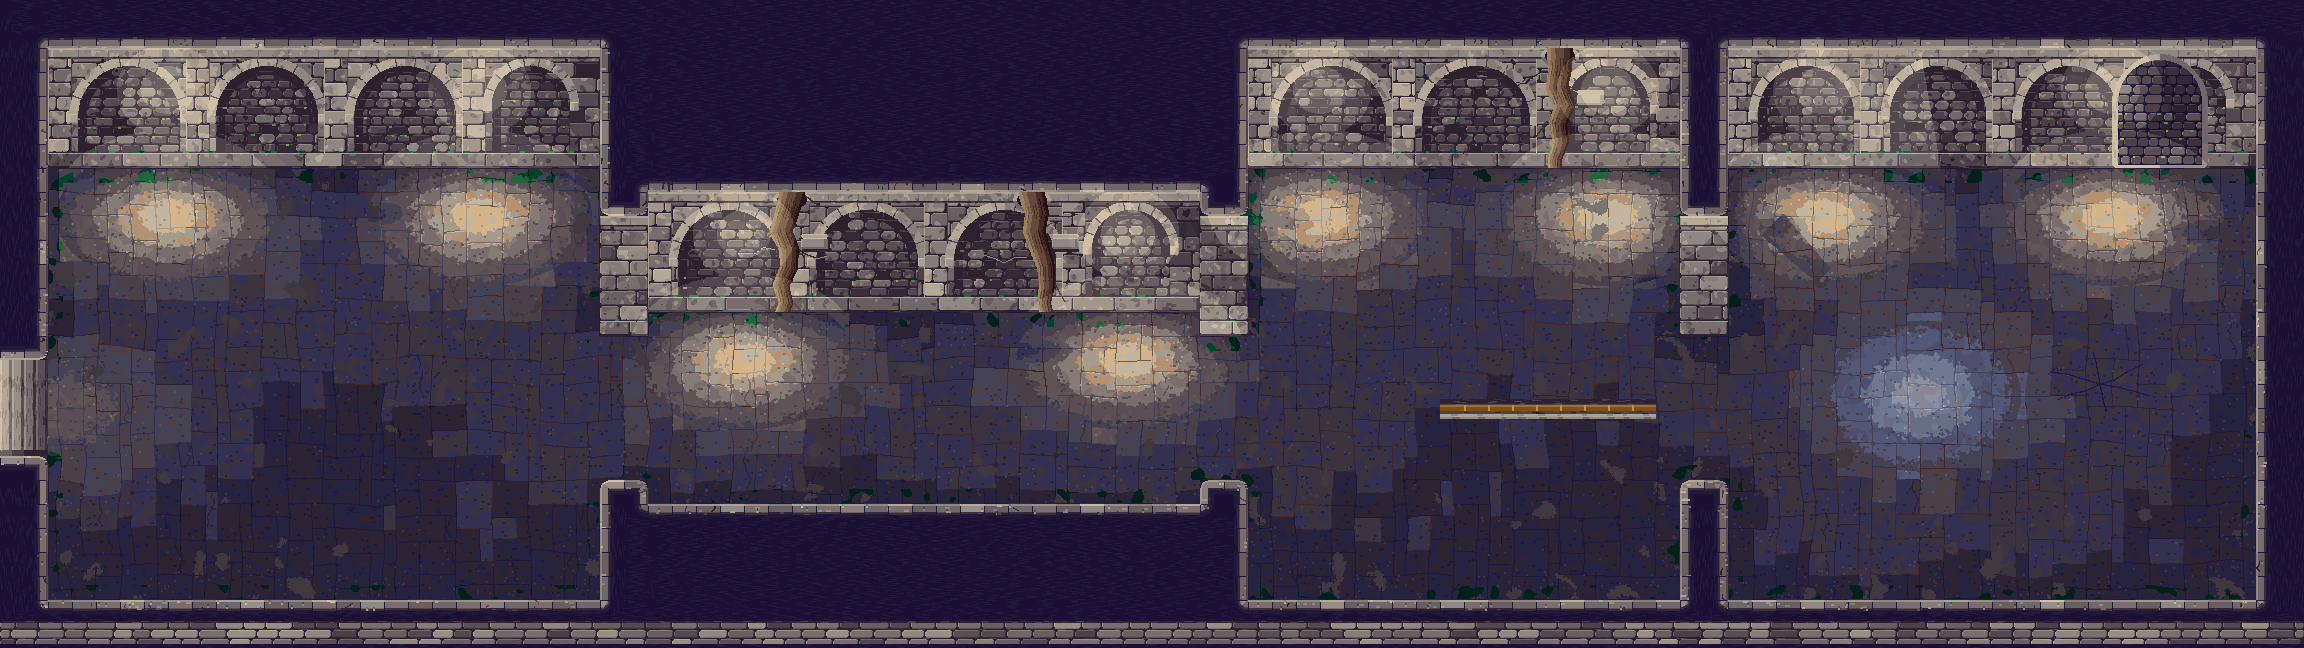
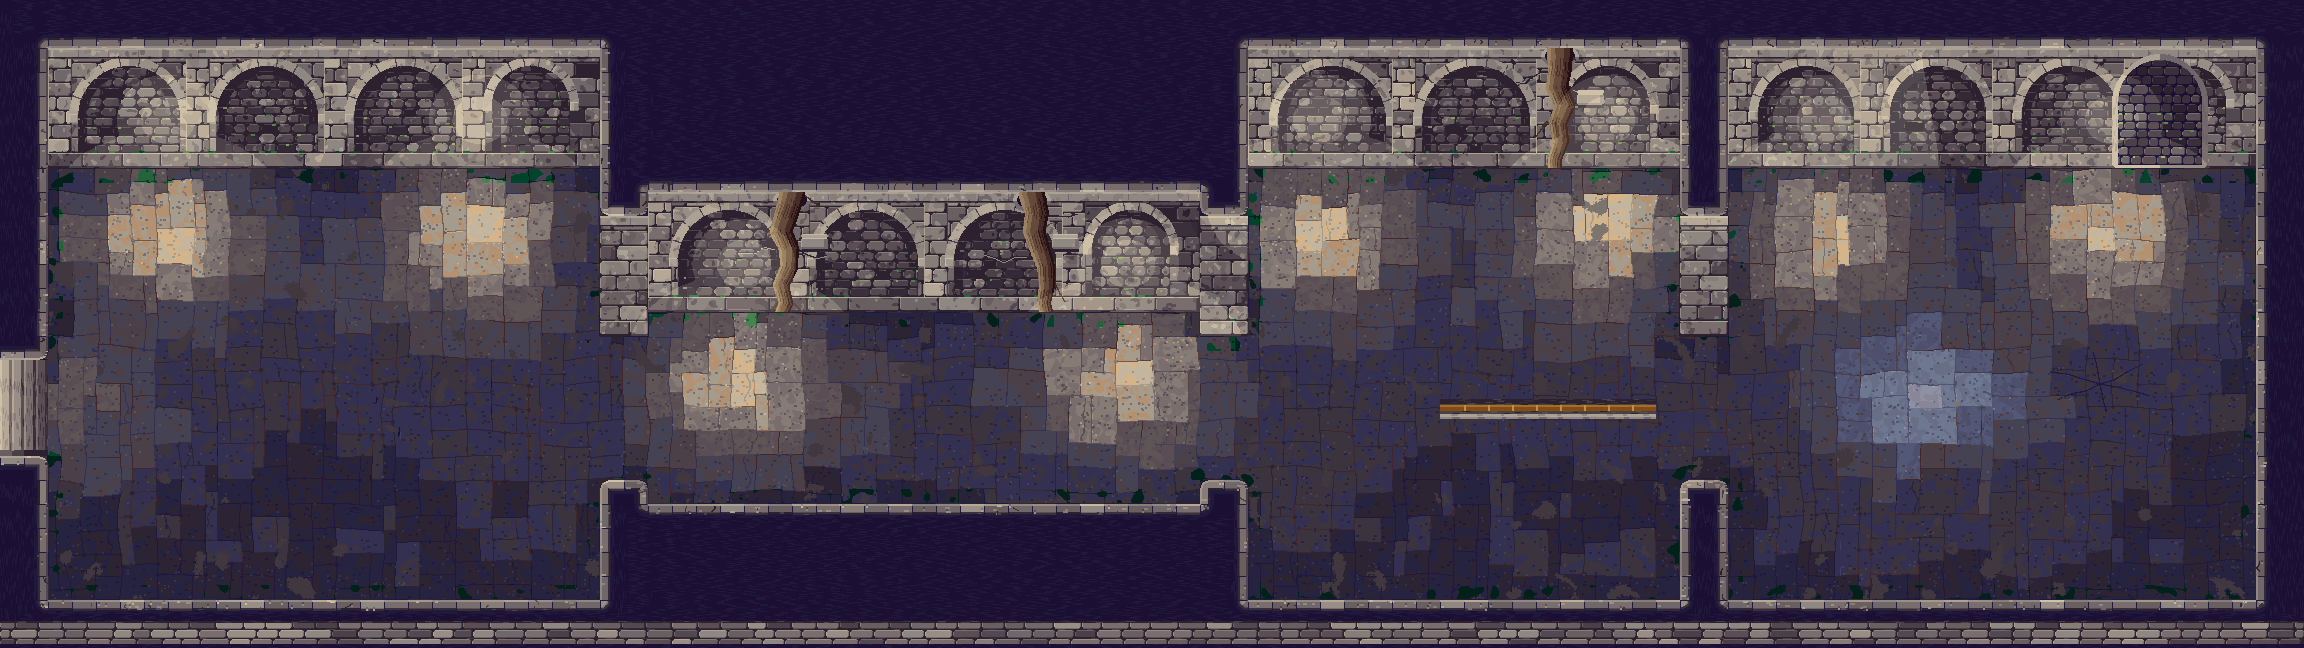
Undercroft: every pool under its torch, pools follow the flags; logic.light_source
Torches hang lower on the faces (TORCH_LIFT 14), in view over their pools. The floor takes the
light flag by flag (few, irregular steps; joints stay dark, rising slowly), lit flags carry worn
patches and pits. New scene check logic.light_source: on a dark ground a light pool with no torch,
lamp or opening within 1.4 H is a fault (LightSource tests in check:review). A ground piece's ring
needs to be half ground, as flats() asks. Calibration 38/38, false positives unchanged.

Claude-Session: https://claude.ai/code/session_01UudrmtYkicLNgZeuSjvjrK

diff --git a/scripts/art/native/undercroft.py b/scripts/art/native/undercroft.py
@@ -46,6 +46,7 @@ INPUTS = ('undercroft.py', 'village.py', 'palette.py', 'ctx.py')
 STONES = ('stone', 'stone_warm', 'stone_cool')
 CAIRN = os.path.join(ROOT, 'game', 'assets', 'characters', 'cairn', 'sheets', 'defeat_S.png')
 TORCH_FRAMES = 4
+TORCH_LIFT = 14          # world px from the face's foot to the torch's cup: low on the face, in view over its pool
 
 
 def input_hash(plan_path: str, density: float) -> str:
@@ -1331,11 +1332,11 @@ def build(plan: dict, out_dir: str, preview: str | None = None) -> dict:
     lf_warm = np.zeros((H, W))
     for tx, ty in plan.get('torches', []):
         dfl = np.hypot((WX - tx) / 40, (WY - ty - 12) / 26)        # the floor below
-        dfa = np.hypot((WX - tx) / 18, (WY - ty + 26) / 16)        # the face round the bracket
+        dfa = np.hypot((WX - tx) / 18, (WY - ty + TORCH_LIFT + 2) / 16)    # the face round the bracket
         d = np.minimum(dfl, dfa) + nz
         lightv = np.maximum(lightv, np.where((dfa < 0.5) | (d < 0.5), 2, np.where(d < 0.95, 1, np.where(d < 1.4, 0, -1))))
         warm |= d < 1.1
-        dt = np.hypot((WX - tx) / 48, (WY - ty - 16) / 30) + nz * 0.15
+        dt = np.hypot((WX - tx) / 46, (WY - ty - 22) / 38) + nz * 0.15
         # the pool's heart (up to rung 4 to 5) and its wide spill (a rung over the room's shade)
         lt = 5.0 * np.clip(1 - dt, 0, 1) ** 1.6 + 1.1 * np.clip(1 - dt / 2.2, 0, 1) ** 0.9
         lf = np.maximum(lf, lt)
@@ -1395,7 +1396,7 @@ def build(plan: dict, out_dir: str, preview: str | None = None) -> dict:
     add_pic('torch', sheet)
     for i, (tx, ty) in enumerate(plan.get('torches', [])):
         objects.append(dict(id='torch_%d' % (i + 1), kind='torch', png='torch', foot=(q(tx), q(ty)),
-                            anchor=(frames[0].ax, frames[0].ay), lift=q(24), frames=TORCH_FRAMES, alpha=None, cond=None,
+                            anchor=(frames[0].ax, frames[0].ay), lift=q(TORCH_LIFT), frames=TORCH_FRAMES, alpha=None, cond=None,
                             solid=None))
     for wl in plan['walls']:
         if wl.get('alcove'):
@@ -1454,26 +1455,35 @@ def build(plan: dict, out_dir: str, preview: str | None = None) -> dict:
             e = ((XX - fx - q(2)) / (w / 2 + q(3))) ** 2 + ((YY - fy + q(1)) / q(4)) ** 2
             sel = (e < 1) & floor
             fshade[sel] += 1.2 * (1 - e[sel]) ** 0.5
-    # --- the floor painted: light minus shade, a rung per texel, soft edges as irregular clusters --------
+    # --- the floor painted: light minus shade, flag by flag ----------------------------------------
+    # Each flag takes the light at its middle (a little jitter, so the steps are few and irregular and
+    # follow the stones, as Eastward's 06); the joints stay dark, rising only slowly in a pool.
     level = FLOOR_AMBIENT + lf - fshade
     level -= 0.6 * np.clip(1 - lf / 0.9, 0, 1)            # far from every light the floor sinks towards the dark
-    thr = ndi.gaussian_filter(np.random.default_rng(91).random((H, W)), 1.2)
-    thr = (np.argsort(np.argsort(thr.ravel())).reshape(H, W) + 0.5) / thr.size     # uniform, in 3-5 px clusters
-    rung = np.floor(level + (thr - 0.5) * 0.35 + 0.5).astype(int)
-    rung = np.clip(rung, 0, 6)                      # rung 0 only in the occlusion at the walls' feet
-    # in the shade the light changes flag by flag (each flag takes its middle's light, a little jitter):
-    # no grain of dither across a dark floor, only the odd stone a tone darker or lighter
+    rung = np.clip(np.floor(level + 0.5).astype(int), 0, 6)
     if nflags:
         with np.errstate(invalid="ignore"):
             fl = np.nan_to_num(ndi.mean(level, labels=slab, index=np.arange(1, nflags + 1)), nan=1.0)
-        fj = np.random.default_rng(93).uniform(-0.15, 0.15, nflags)
-        fr = np.concatenate([[0], np.floor(fl + fj + 0.5).astype(int)])
-        shade_f = (slab > 0) & (lf < 1.2)
-        rung[shade_f] = np.clip(fr[slab[shade_f]], 0, 6)
-    # arrises catch the light only inside a pool: a flag's top and west edge a rung up, broken
+        fj = np.random.default_rng(93).uniform(-0.3, 0.3, nflags)
+        fr = np.concatenate([[0], np.clip(np.floor(fl + fj + 0.5).astype(int), 0, 6)])
+        rung[slab > 0] = fr[slab[slab > 0]]
+    jl = FLOOR_AMBIENT + 0.45 * lf - fshade - 0.6 * np.clip(1 - lf / 0.9, 0, 1)
+    jr = np.clip(np.floor(jl + 0.5).astype(int), 0, 4)
+    nb = ndi.grey_erosion(np.where(slab > 0, rung, 9), size=(3, 3))      # the darkest flag beside the joint
+    jt = (slab == 0) & floor
+    rung[jt] = np.minimum(jr[jt], np.maximum(0, nb[jt] - 1)) + 1          # +1: floor_codes takes the joint's -1
+    # arrises catch the light only inside a pool: a flag's top and west edge a rung up, here and there
     top_l = (slab > 0) & (np.roll(fjoint, 1, 0) | np.roll(fjoint, 1, 1)) & (foff == 0)
-    arris = top_l & (rung >= 4) & (np.random.default_rng(92).random((H, W)) < 0.6)
+    arris = top_l & (rung >= 4) & (np.random.default_rng(92).random((H, W)) < 0.35)
     off = foff + arris.astype(int)
+    # a lit flag shows its wear: worn patches on its sibling stone and a few more pits, so a pool's
+    # flags are lit stone, not flat tiles
+    lit_f = (slab > 0) & (rung >= 3)
+    wl = ndi.gaussian_filter(np.random.default_rng(94).random((H, W)), q(1.1))
+    fvar = np.where(lit_f & (wl > np.quantile(wl, 0.55)), 1 - fvar, fvar)
+    pit = lit_f & (np.random.default_rng(95).random((H, W)) < 0.006) & (foff == 0)
+    pit = ndi.binary_dilation(pit, structure=np.ones((2, 2))) & lit_f
+    off[pit] = -1
     paint = floor & ~outer & ~fixed
     fc = floor_codes(rung, off, fmat, fvar, fcool, fwarm)
     cv[paint] = fc[paint]

diff --git a/scripts/review/scene.py b/scripts/review/scene.py
@@ -469,6 +469,68 @@ def check_shadows(z: Zone, H=GAME_H) -> list[Finding]:
     return fs
 
 
+LIGHT_SOURCES = ('torch', 'brazier', 'lamp', 'lantern', 'candle', 'fire', 'hearth', 'forge', 'window', 'skylight')
+POOL_RISE = 35.0          # L units: a pool stands this far over the ground's median (blurred at 0.2 H)
+POOL_MIN = 0.25           # H^2
+POOL_REACH = 1.4          # H: the pool's brightest point lies this near a source
+
+
+def light_sources(z: Zone) -> list[tuple]:
+    """Where light comes from: every visible sprite named as a light (torch, brazier, lamp, window,
+    ...) at its foot, and the plan's skylight and stair hatch (zone texels)."""
+    pts = []
+    for sp in z.sprites:
+        if sp.visible and any(k in (sp.name + ' ' + sp.path).lower() for k in LIGHT_SOURCES):
+            pts.append((float(sp.origin[0]), float(sp.origin[1])))
+    if z.plan and z.plan.get('box'):
+        d = z.size[0] / float(z.plan['box'][2])
+        sk = z.plan.get('skylight')
+        if sk:
+            pts.append((sk['at'][0] * d, sk['at'][1] * d))
+        st = z.plan.get('stair')
+        if st:
+            x, y, w, h = st['rect']
+            pts.append(((x + w) * d, (y + h / 2) * d))
+    return pts
+
+
+def check_light_sources(z: Zone, H=GAME_H) -> list[Finding]:
+    """A pool of light painted on a dark ground (an interior, a night street) needs its source: a
+    torch, brazier, lamp or window over it, or the opening it falls through. A bright patch at least
+    POOL_RISE over the ground's median and POOL_MIN large, with no source within POOL_REACH of its
+    brightest point, is a light from nowhere (Claude A's review of the Undercroft, 26 Oct)."""
+    if z.ground is None:
+        return []
+    L = lum(z.ground[..., :3])
+    floor = np.ones(L.shape, bool)
+    if z.plan and z.plan.get('walls') and z.plan.get('box'):
+        d = z.size[0] / float(z.plan['box'][2])
+        for w in z.plan['walls']:
+            x, y, ww, hh = (int(round(v * d)) for v in w['rect'])
+            floor[max(0, y):y + hh, max(0, x):x + ww] = False
+    if np.median(L[floor]) >= 90:
+        return []                      # a daylit ground: its light is the sun's
+    bl = ndi.gaussian_filter(L, 0.2 * H)
+    pool = floor & (bl >= np.median(bl[floor]) + POOL_RISE)
+    lab, regs = regions(pool, min_area=int(POOL_MIN * H * H))
+    src = light_sources(z)
+    fs = []
+    for lid, sl, area in regs:
+        comp = lab == lid
+        yy, xx = np.nonzero(comp)
+        k = int(np.argmax(bl[comp]))
+        px, py = float(xx[k]), float(yy[k])
+        near = min((np.hypot(px - sx, py - sy) for sx, sy in src), default=1e9)
+        if near > POOL_REACH * H:
+            fs.append(Finding('logic.light_source', 'fault', slice_box(sl),
+                              f'a pool of light {area / (H * H):.1f} H^2 with no source: the nearest torch, lamp or '
+                              f'opening is {near / H:.1f} H from its brightest point',
+                              'hang a torch or brazier on the wall over the pool (or make it the skylight\'s pool with '
+                              'its beam), or take the pool away; light never comes from nowhere (art-style.md)',
+                              score=near / H, threshold=POOL_REACH, subject='light'))
+    return fs
+
+
 def check_rows(z: Zone, H=GAME_H) -> list[Finding]:
     """The same drawing three or more times on one line at even spacing."""
     fs = []
@@ -568,6 +630,7 @@ def review_zone(zone_id: str, H=GAME_H, wiring=True) -> dict:
     fs += check_crowns(z, H)
     fs += check_reach(z, H)
     fs += check_shadows(z, H)
+    fs += check_light_sources(z, H)
     fs += check_rows(z, H)
     if wiring:
         fs += check_wiring([zone_id])

diff --git a/scripts/review/test_review.py b/scripts/review/test_review.py
@@ -276,5 +276,27 @@ class GroundPlane(unittest.TestCase):
     def test_bright_contrasting_floor_trips(self):
         self.assertTrue(self.flat('bright'))
 
+
+class LightSource(unittest.TestCase):
+    """logic.light_source: a warm pool on a dark floor needs a torch (or an opening) over it."""
+
+    def zone(self, torch):
+        a = np.zeros((300, 400, 4), np.uint8)
+        a[..., :3] = (52, 48, 70)
+        a[..., 3] = 255
+        Y, X = np.mgrid[0:300, 0:400]
+        a[((X - 200) / 60.0) ** 2 + ((Y - 150) / 40.0) ** 2 < 1, :3] = (170, 150, 120)
+        sprites = []
+        if torch:
+            sprites.append(SN.Sprite('Torch_1', 'res://zones/x/art/torch.png', (200, 100), (190, 60, 210, 100), 0,
+                                     False, np.zeros((40, 20, 4), np.uint8), 'WallFx'))
+        return SN.Zone('x', (400, 300), a, sprites=sprites)
+
+    def test_pool_without_source(self):
+        self.assertTrue(SN.check_light_sources(self.zone(False), H))
+
+    def test_pool_under_a_torch(self):
+        self.assertEqual(SN.check_light_sources(self.zone(True), H), [])
+
 if __name__ == '__main__':
     unittest.main()

diff --git a/scripts/review/screen.py b/scripts/review/screen.py
@@ -41,7 +41,7 @@ def piece_of_ground(native, comp, g, H) -> bool:
     little hue).
     A thing stands out further: a prop, a boulder, a slab of Matt's terrazzo (U1) does."""
     ring = ndi.binary_dilation(comp, iterations=2) & ~comp
-    if not ring.any() or g[ring].mean() < 0.6:
+    if not ring.any() or g[ring].mean() < 0.5:          # as flats(): a ring at least half ground
         return False
     band = B.load_bands().get('groups', {}).get('ground')
     if not band:

diff --git a/docs/review-agents.md b/docs/review-agents.md
@@ -26,7 +26,7 @@ Before you hand art to Claude A or Matt:
 | --- | --- | --- |
 | `water.py` | scene, ground assets | `logic.water_staircase`, `logic.water_straight`, `detail.fall_flat`, `logic.fall_face`, `logic.water_source`, `logic.bridge_span` |
 | `screen.py` | scene, ground assets | `logic.stray_line`, `detail.repetition` (stamped tufts), `detail.flat` (one-tone areas and flat objects), `detail.flat_line`, `detail.no_falloff` (interiors), `detail.debug_overlay` |
-| `scene.py` | scene (Godot data) | `logic.occlusion`, `logic.intersect`, `logic.crown_cut`, `logic.reach`, `logic.shadow_orphan`, `logic.prop_row`, `logic.wiring` |
+| `scene.py` | scene (Godot data) | `logic.occlusion`, `logic.intersect`, `logic.crown_cut`, `logic.reach`, `logic.shadow_orphan`, `logic.light_source`, `logic.prop_row`, `logic.wiring` |
 | `detail.py` | asset | `detail.flat`, `detail.volume`, `detail.texture`, `detail.light`, `detail.mesh`, `detail.water_flat` |
 | `construct.py` | asset | `logic.floating_part`, `logic.stilts`, `logic.dotted_line`, `logic.scale` (size guide), mushrooms (`logic.scale`, `logic.prop_row`), `logic.biome`, `detail.mesh` (see-through crowns), `detail.water_flat` (half discs, flat troughs), `detail.light`, `detail.repetition`, `detail.glyph` (UI-like marks), `logic.construction` (a well needs a crank), `detail.volume` (cylinder shading) |
 | `cast.py` | characters | `cast.foot_slide`, `cast.walk_speed`, `cast.seam`, `cast.equipment`, `cast.end_pose`, `cast.light` (ported from the 25 Oct cast audits; `python3 -m scripts.review.cast [ids]`) |
@@ -52,6 +52,10 @@ So a **ground plane** (an area off the ground palette at least 1 H² and 0.5 H a
 A flat fill (2 to 3 tones, 4 to 5 shapes a patch) still trips, and so does a bright floor of contrasting slabs: Matt's terrazzo floor (U1) measures 28 to 33 L between its pieces against Eastward's 5 to 16. The round 4 Undercroft floor measures 9.5 to 11 tones, 27 to 29 shapes and 13 to 16 L. `npm run check:review` holds one picture of each (`GroundPlane`: a calm Eastward-like floor that passes, a flat one and a bright contrasting one that trip).
 
 The zone faults (W7, W8, W12 and the other woodland zone routes) are now pinned to the commit Matt saw (`woodland@2f88ca53` in `calibration_set.json`; `calibrate.pinned_game` extracts the zone's data and the files its scenes reach), as the asset routes already were. Before that, a fixed woodland made the calibration lose the faults it was built on (35 of 38 on 26 Oct). With the pin and the ground band: **38 of 38**; the false positives are in `calibration_results.json`.
+
+## Light sources (26 Oct)
+
+`logic.light_source` (`scene.check_light_sources`): on a dark ground (an interior or a night street, median luminance under 90), a pool of light is a patch at least 35 L over the ground's median (blurred at 0.2 H) and 0.25 H² large. Its brightest point must lie within 1.4 H of a source: a visible sprite named as a light (torch, brazier, lamp, lantern, candle, fire, hearth, forge, window, skylight) or the plan's skylight or stair hatch. Otherwise it is a light from nowhere. Claude A found two such pools in the Undercroft's seal room, where the torches hung above the frame. `check:review` holds a pool with and without a torch (`LightSource`). The Undercroft's pools all find their torches; with the torches removed, all eight are caught.
 
 ## Adding a detector
 
